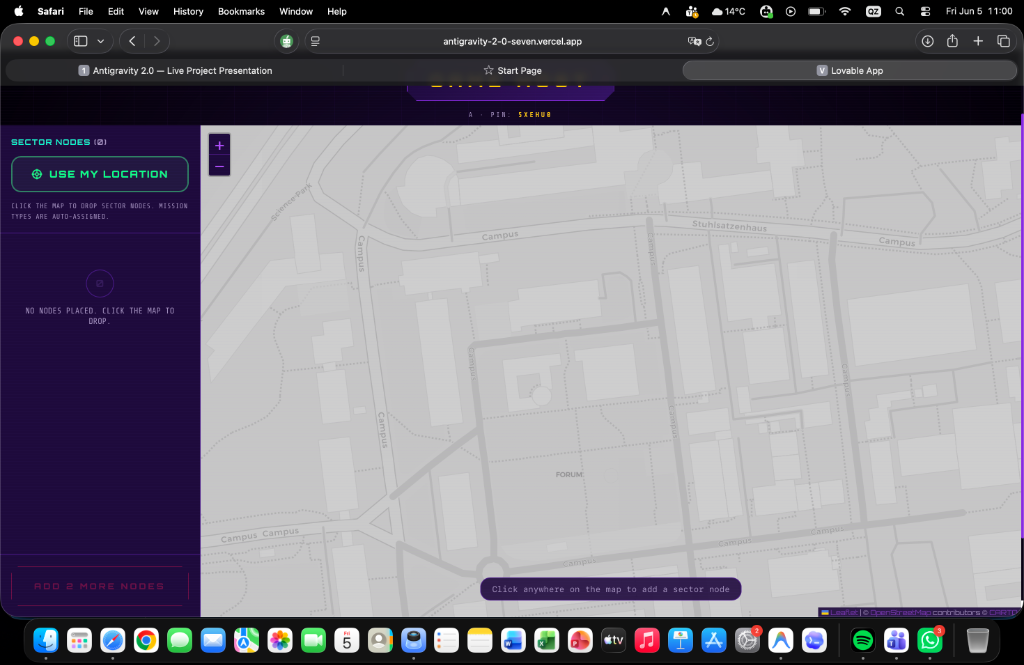
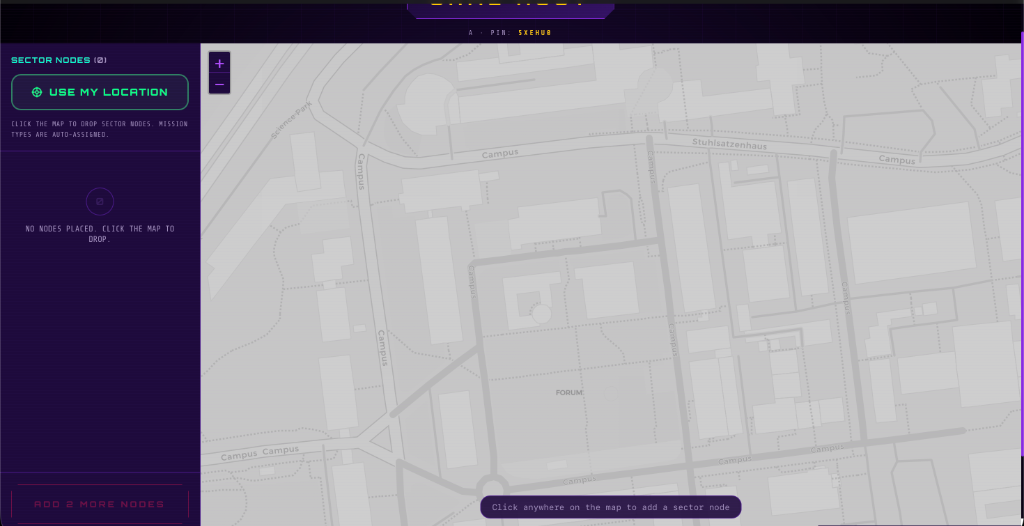
Update README layout and crop browser screenshot

diff --git a/README.md b/README.md
@@ -1,10 +1,14 @@
-# 🌌 Antigravity 2.0 - Immersive Gamified Scavenger Hunt
+<p align="center">
+  <img src="src/assets/logo.png" alt="Antigravity 2.0 Logo" width="450" />
+</p>
+
+# Antigravity 2.0 - Immersive Gamified Scavenger Hunt
 
 **Antigravity 2.0** is an innovative, cyberpunk-themed outdoor scavenger hunt application designed for school PE classes. Grounded in Deci & Ryan's **Self-Determination Theory (SDT)** and heavily inspired by **Marvel's Guardians of the Galaxy**, the application transforms regular physical education challenges into an immersive narrative space mission.
 
 ---
 
-## 📸 Screenshots & Visuals
+## Screenshots & Visuals
 
 ### 1. Teacher Dashboard & Real-Time Map Setup
 The teacher ("Commander") drops sector nodes on the map and monitors live team progress:
